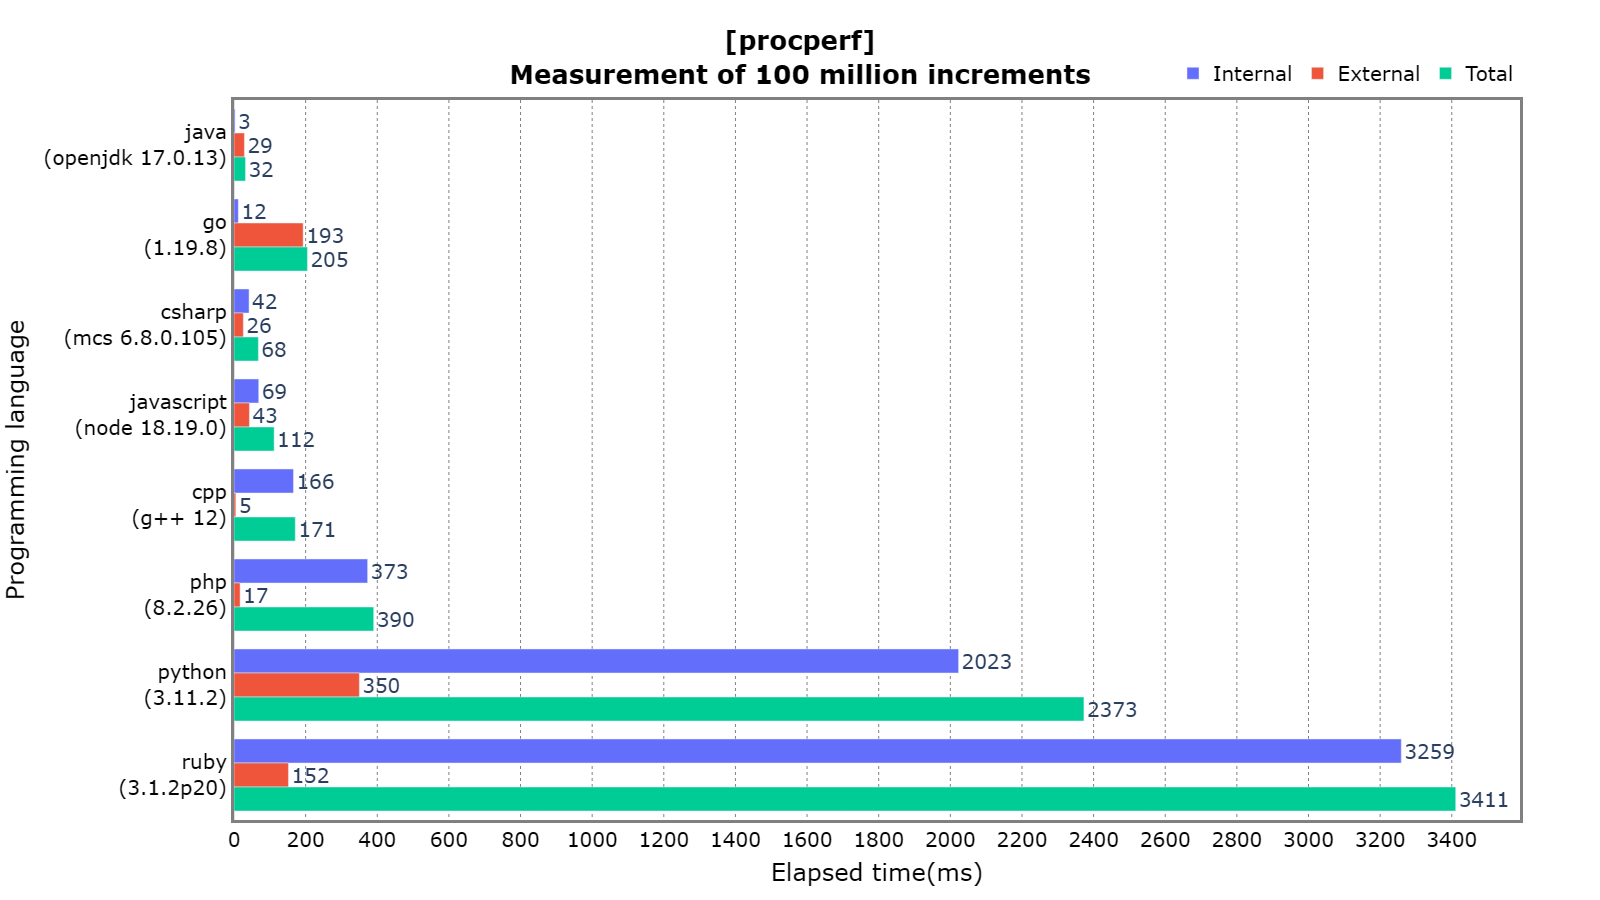
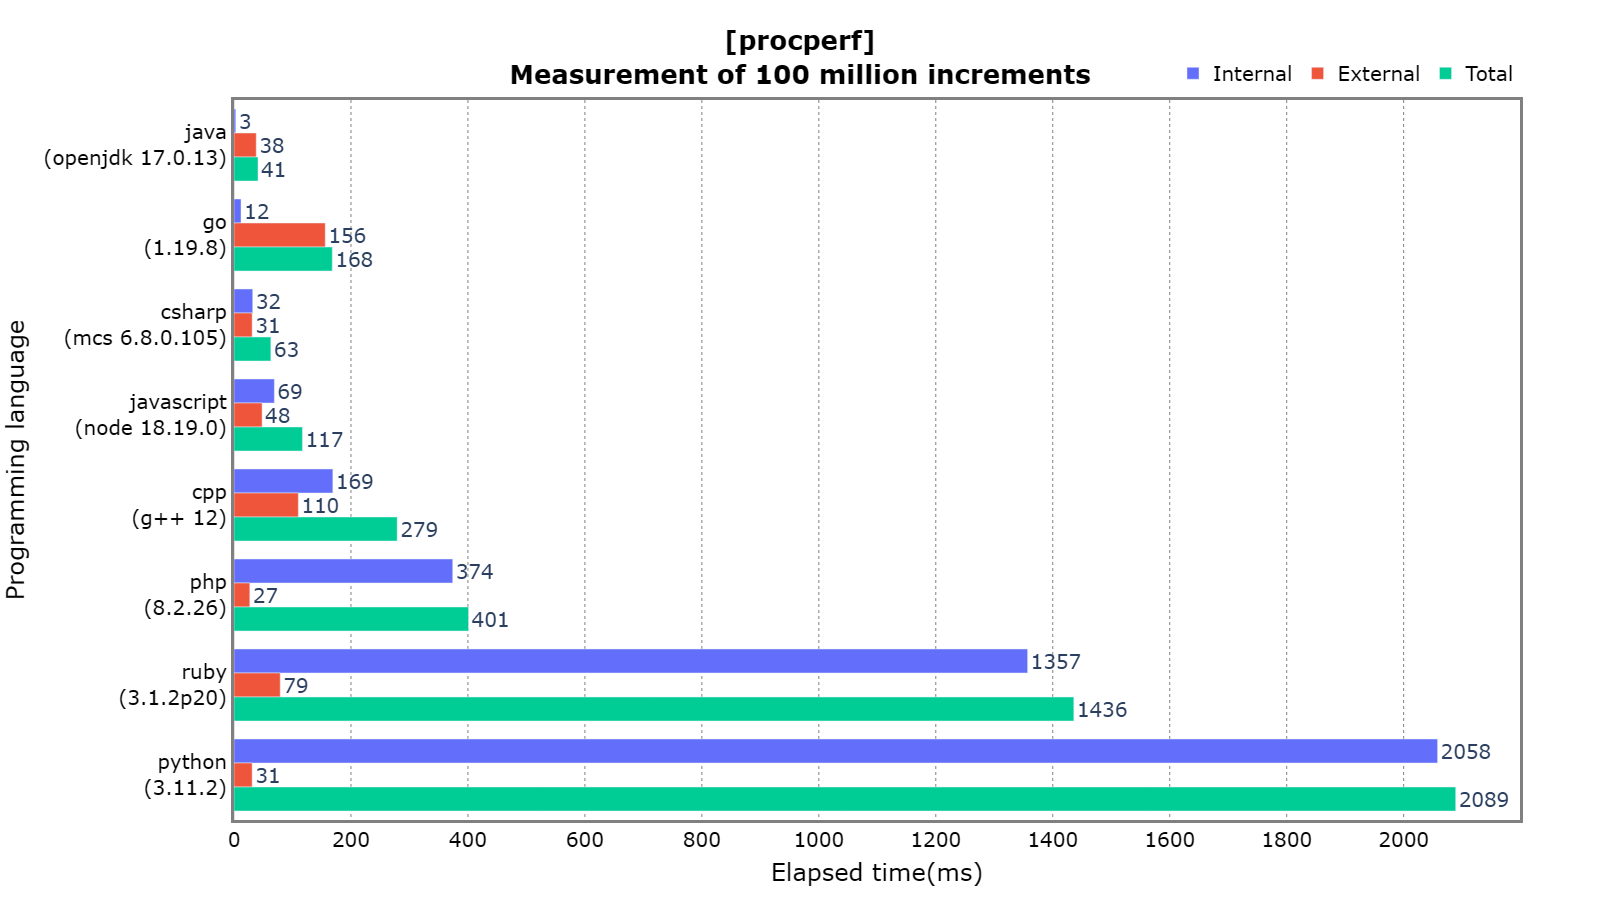
Update procperf

diff --git a/tests/measure_procperf.py b/tests/measure_procperf.py
@@ -9,7 +9,7 @@ from measure_command import *
 if "PERFAIT_PATH" not in os.environ:
   os.environ["PERFAIT_PATH"] = os.path.abspath(os.path.join(os.path.dirname(__file__), "../src/perfait/scripts/perfait_scripts/perfait"))
 
-procperfConfig = dict(
+procperfMeasureCommands = dict(
   cpp = ["./procperf_cpp"],
   python = ["python3", "./procperf.py"],
   csharp = ["mono", "./procperf_cs"],
@@ -75,9 +75,9 @@ perfait = {
   "YTitleText": "Programming language",
   "Array": [],
 }
-for proglang in procperfConfig.keys():
+for proglang in procperfMeasureCommands.keys():
   proglang_prepare(proglang)
-  measure = measure_command(5, procperfConfig[proglang])
+  measure = measure_command(5, procperfMeasureCommands[proglang])
   if 0 < len(measure["stderr"]):
     sys.exit("""\033[40m\033[31m{}\033[0m""".format(measure["stderr"]))
   internalElapsedTime = int(measure["internalElapsedTime"] * 1000)

diff --git a/tests/procperf/procperf.rb b/tests/procperf/procperf.rb
@@ -1,6 +1,8 @@
 require "perfait"
 
 stopwatch = Perfait::Stopwatch.new
-for _ in 1..100000000 do
+i = 0
+while i < 100000000 do
+  i = i + 1
 end
 puts(sprintf("%.6f", stopwatch.stop()))

diff --git a/README.md b/README.md
@@ -54,50 +54,50 @@ Visualization of multiple measurement results
     [
       "java<br>(openjdk 17.0.13)",
       3,
-      29,
-      32
+      38,
+      41
     ],
     [
       "go<br>(1.19.8)",
       12,
-      193,
-      205
+      156,
+      168
     ],
     [
       "csharp<br>(mcs 6.8.0.105)",
-      42,
-      26,
-      68
+      32,
+      31,
+      63
     ],
     [
       "javascript<br>(node 18.19.0)",
       69,
-      43,
-      112
+      48,
+      117
     ],
     [
       "cpp<br>(g++ 12)",
-      166,
-      5,
-      171
+      169,
+      110,
+      279
     ],
     [
       "php<br>(8.2.26)",
-      373,
-      17,
-      390
-    ],
-    [
-      "python<br>(3.11.2)",
-      2023,
-      350,
-      2373
+      374,
+      27,
+      401
     ],
     [
       "ruby<br>(3.1.2p20)",
-      3259,
-      152,
-      3411
+      1357,
+      79,
+      1436
+    ],
+    [
+      "python<br>(3.11.2)",
+      2058,
+      31,
+      2089
     ]
   ]
 }
